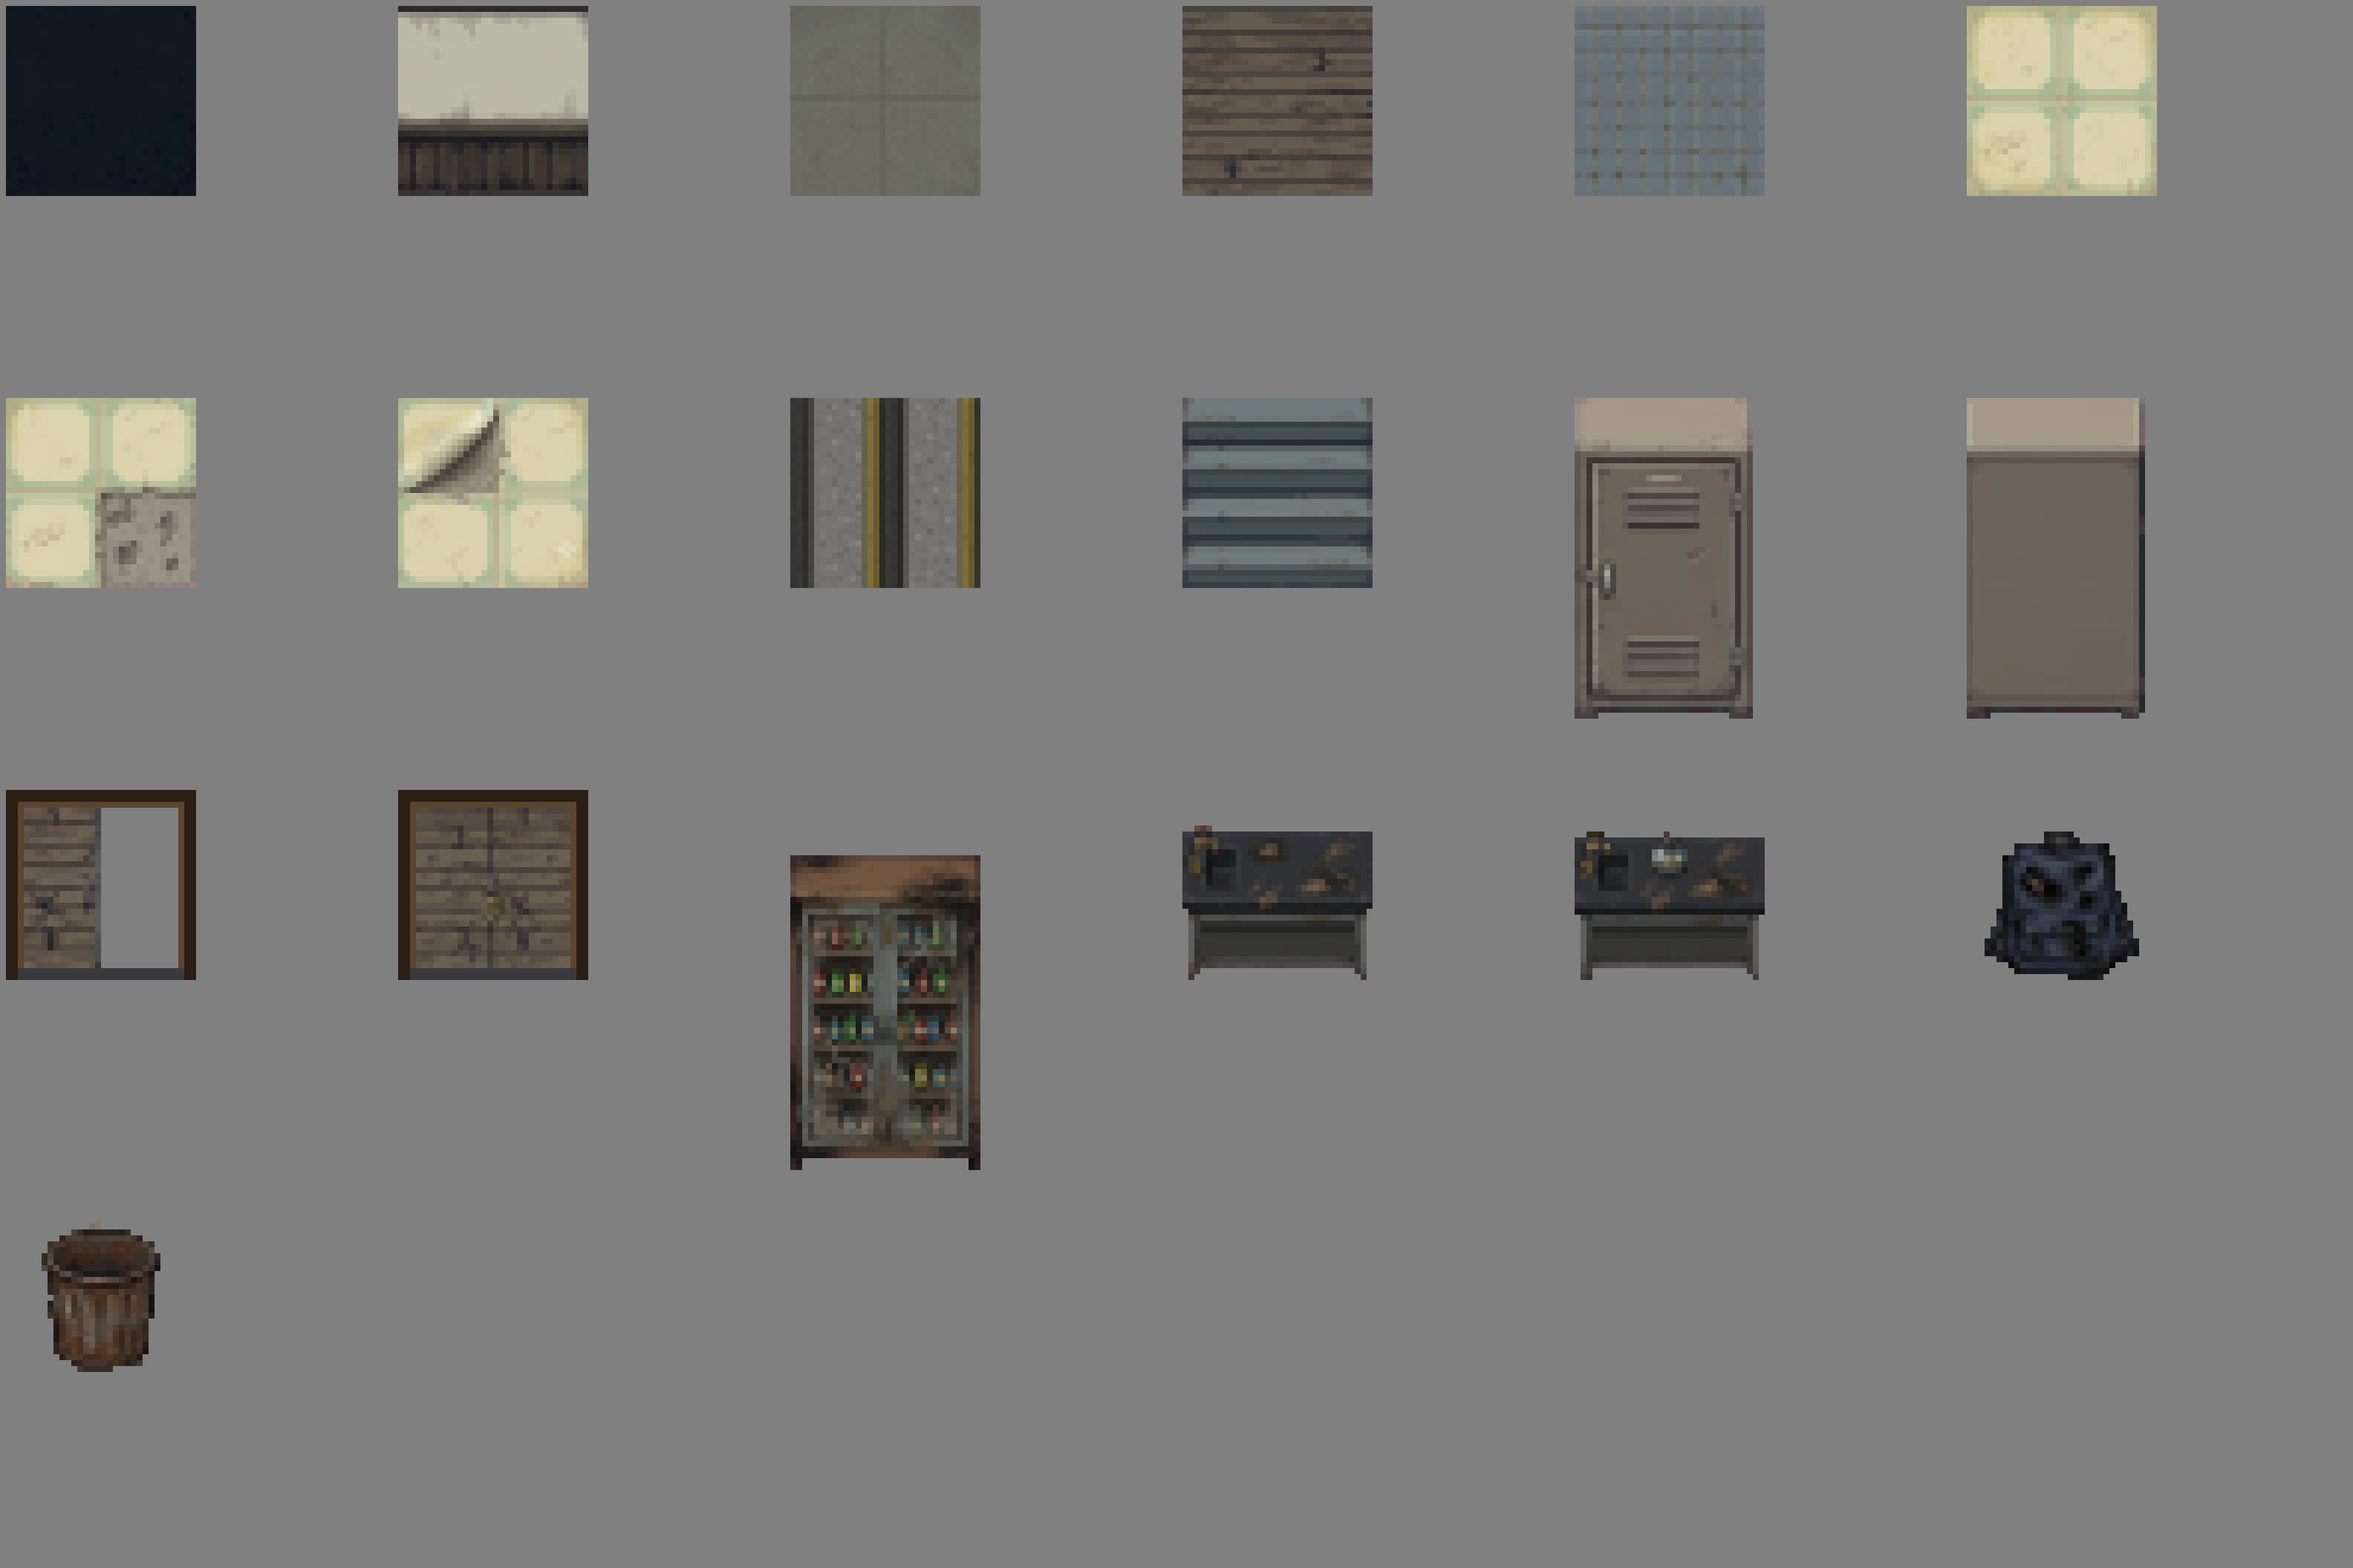
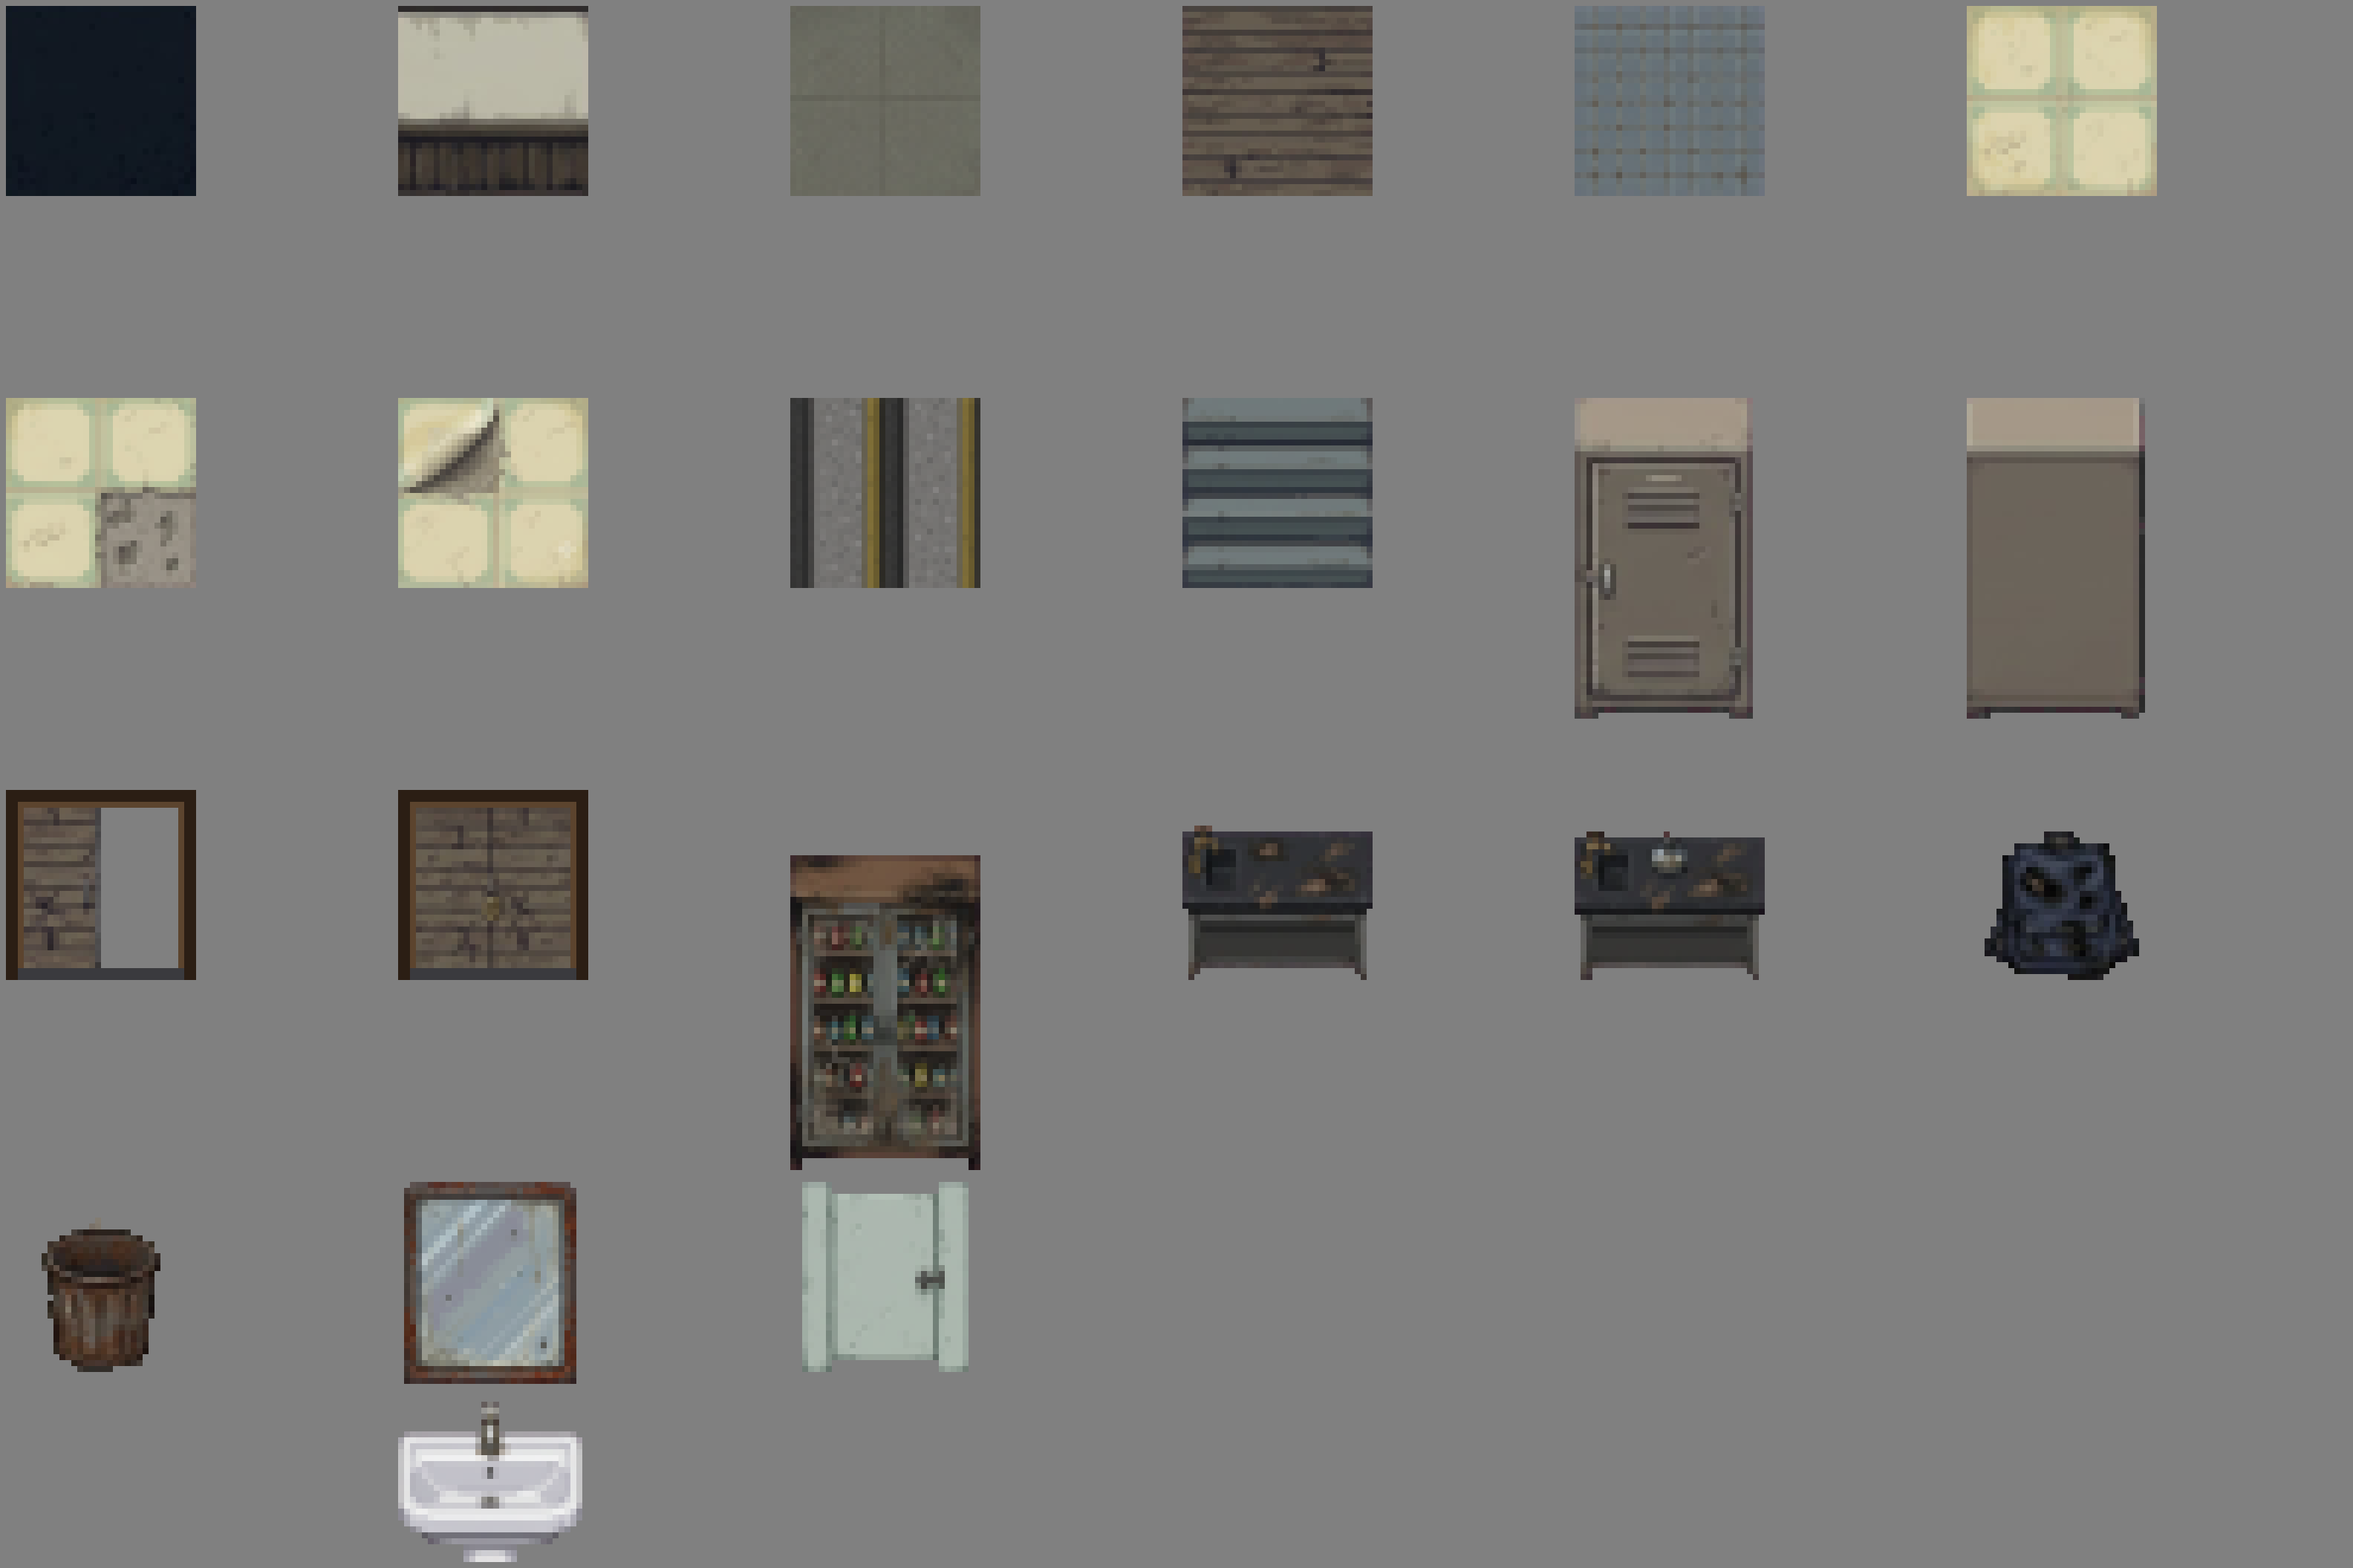
feat: 화장실 거울·세면대·칸막이 완성 그래픽 적용 (#83)
Gemini로 만든 bathroom.png에서 mirror(32x64, 위 칸 거울·아래 칸 세면대)와
stall(32x32)을 sprites.py로 만들었다. 칸막이 오른쪽 아래 워터마크는
patch로 지웠다. 에셋 가이드 진행 상황과 asset_reference.png 갱신.

Changed region(s): [[0.1562, 0.75, 0.25, 1.0], [0.3438, 0.75, 0.4375, 0.875]]

diff --git a/docs/에셋_제작_가이드.md b/docs/에셋_제작_가이드.md
@@ -280,10 +280,10 @@ Same style as before. Using the attached character as the base body, three 32x32
 | 구분 | 완료 | 남음 |
 |---|---|---|
 | 벽·바닥 | `wall_top`, `wall_face`, `floor_corridor`(인조석), `floor_wood`, `floor_tile`, `floor_pc`(+변형 2), `floor_stairs_side` | `floor_roof`, `floor_room`(침실), 데칼 8종, `fence`, `window`, `exit_door`, `homedoor`, 방송실 장판 |
-| 가구 | `locker`, `locker_back`, `chemshelf`, `labtable`, `lamp`, `bag`, `trash` | 4-3 ~ 4-9의 나머지 전부 |
+| 가구 | `locker`, `locker_back`, `chemshelf`, `labtable`, `lamp`, `bag`, `trash`, `mirror`(거울+세면대), `stall`(칸막이) | 4-3 ~ 4-9의 나머지 전부 |
 | 문 | `door_open`, `door_locked` | — |
 | 캐릭터 | — | 4-12 전부 |
 | 기타 | 난간 `rail_h`(임시 그림) | 컷신 CG (`data/cutscenes.json`의 `[CG] 설명`이 목록) |
 
-- 원본 파일: `assets/source/` (Git 미포함) — walls.png, floors.png, lockers_doors.png, door_locked.png, science.webp, pc_floor.webp, corridor_terrazzo.webp, stairs_side2.webp 등
+- 원본 파일: `assets/source/` (Git 미포함) — walls.png, floors.png, lockers_doors.png, door_locked.png, science.webp, pc_floor.webp, corridor_terrazzo.webp, stairs_side2.webp, bathroom.png(거울·세면대·칸막이, 칸막이 오른쪽 아래 워터마크는 `patch`로 지움) 등
 - 사용하지 않기로 한 것: 위에서 본 문(문은 정면 한 종류), 바닥 변형 타일(색이 안 맞아 데칼로 대신), 초록 옥상(회색 콘크리트로 결정)
